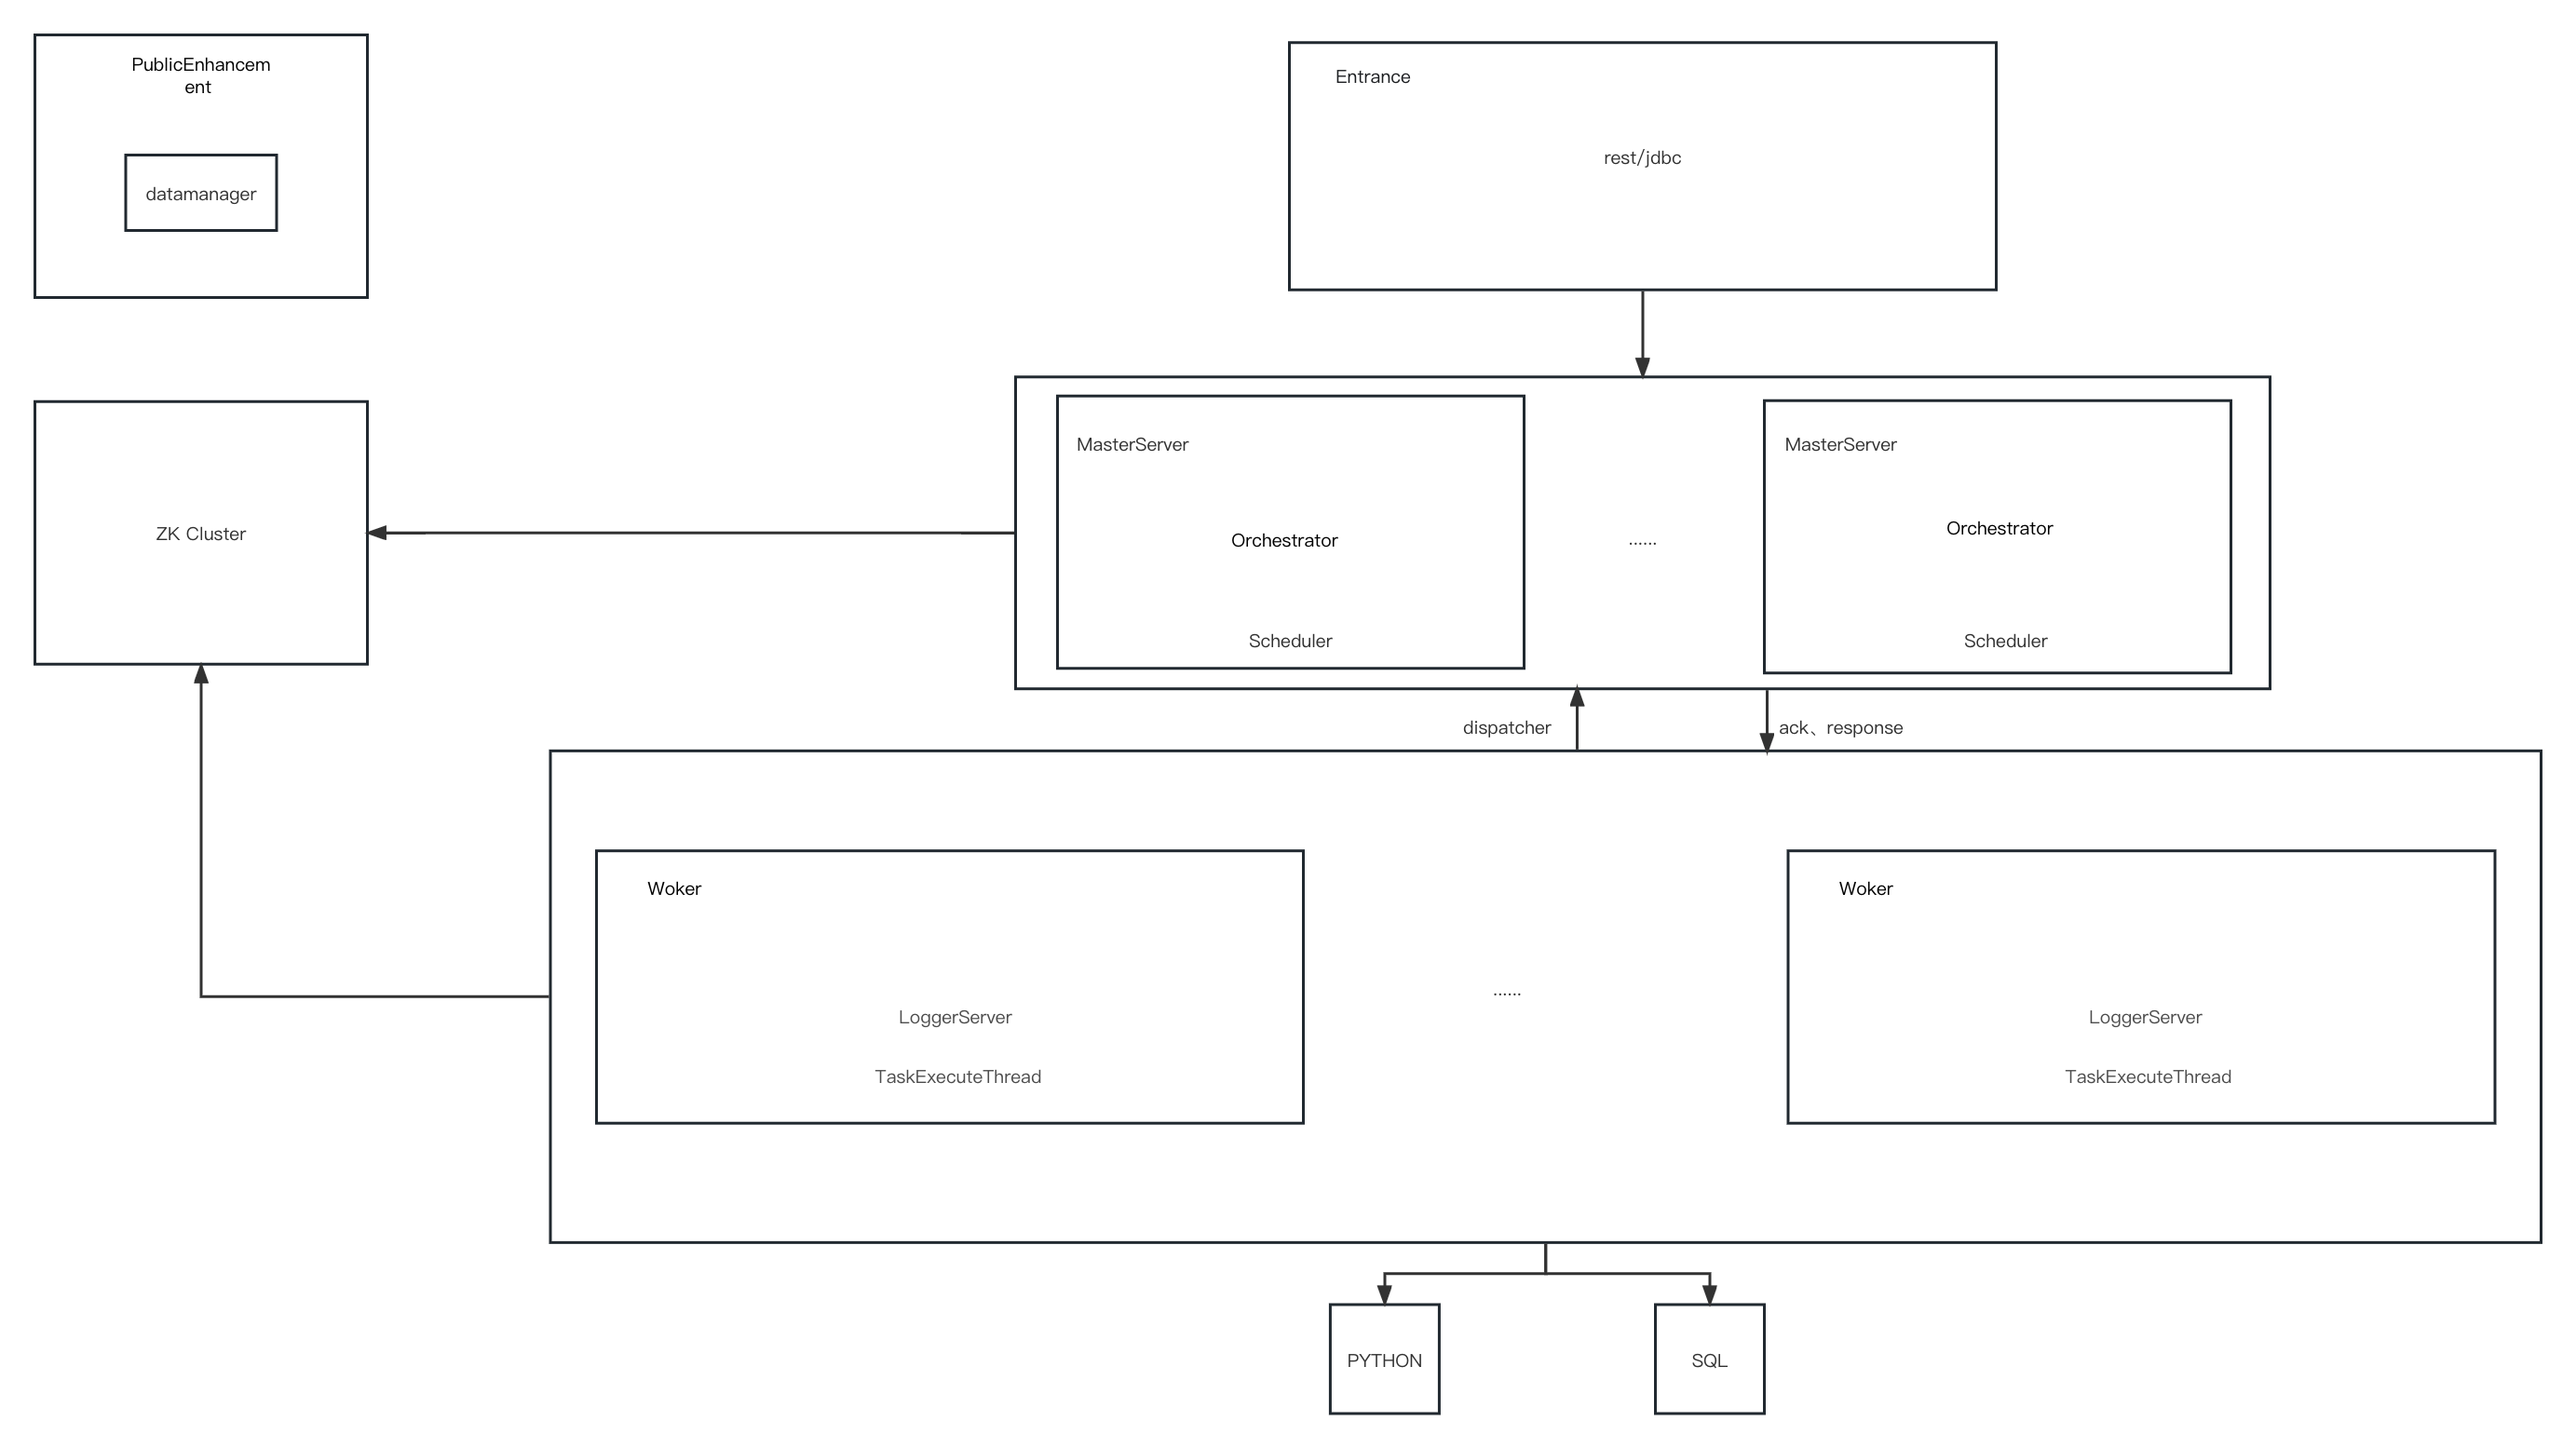
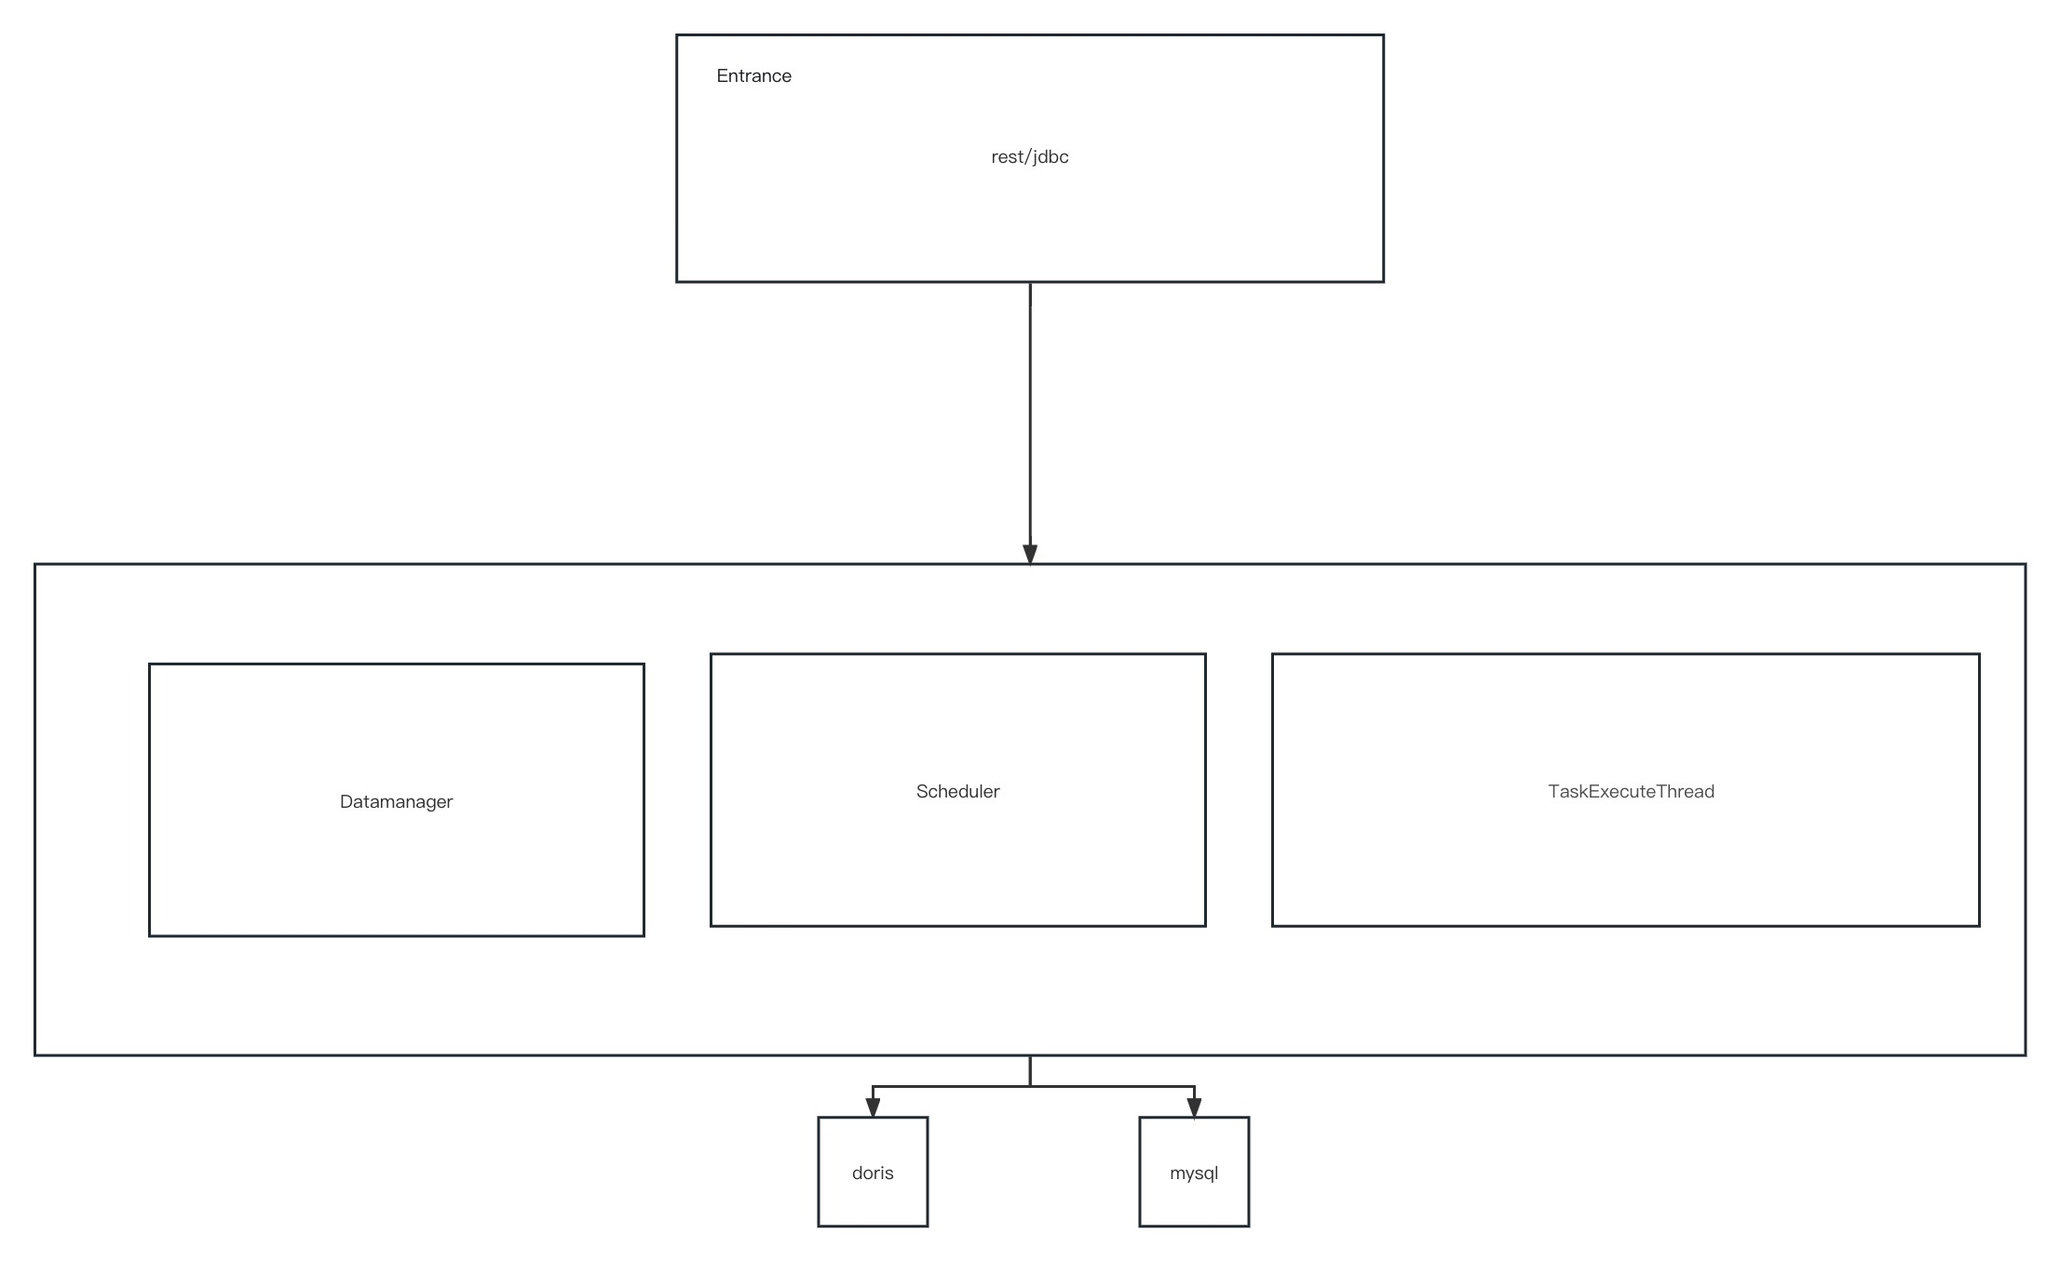
solidui develop document

diff --git a/en_US/Design_Documents/ServerArchitecture/README.md b/en_US/Design_Documents/ServerArchitecture/README.md
@@ -7,16 +7,5 @@ SolidUI Service Architecture
 
 ![soliduiv0.1.0](images/soliduiv0.1.0structure.jpg)
 
-Divide SolidUI into Entrance, MasterServer, ZkCluster, Worker, PublicEnhancement modules
 
 Entrance: API interface layer, mainly responsible for the request of the front-end UI layer, the service uniformly provides RESTful api to provide request services to the outside
-
-MasterServer: task segmentation, task submission
-
-ZkCluster: ZooKeeper service, the MasterServer and WorkerServer nodes in the system perform cluster management and fault tolerance through ZooKeeper, and the system also performs event monitoring and distributed locks based on ZooKeeper
-
-Worker: Mainly responsible for task execution and providing log services. When the WorkerServer service starts, register the temporary node with Zookeeper and maintain the heartbeat
-
-PublicEnhancement: public enhancement services, such as data source management
-
-

diff --git a/zh_CN/设计文档/ServerArchitecture/README.md b/zh_CN/设计文档/ServerArchitecture/README.md
@@ -7,16 +7,7 @@ SolidUI服务架构
 
 ![soliduiv0.1.0](images/soliduiv0.1.0structure.jpg)
 
-将SolidUI 分为Entrance，MasterServer，ZkCluster，Worker，PublicEnhancement模块
 
 Entrance:API接口层，主要负责前端UI层的请求，该服务统一提供RESTful api向外部提供请求服务
-
-MasterServer:任务切分、任务提交
-
-ZkCluster:ZooKeeper服务，系统中的MasterServer和WorkerServer节点都通过ZooKeeper来进行集群管理和容错，另外系统还基于ZooKeeper进行事件监听和分布式锁
-
-Worker：主要负责任务的执行和提供日志服务。 WorkerServer服务启动时向Zookeeper注册临时节点，并维持心跳
-
-PublicEnhancement：公共增强服务，例如数据源管理
 
 
